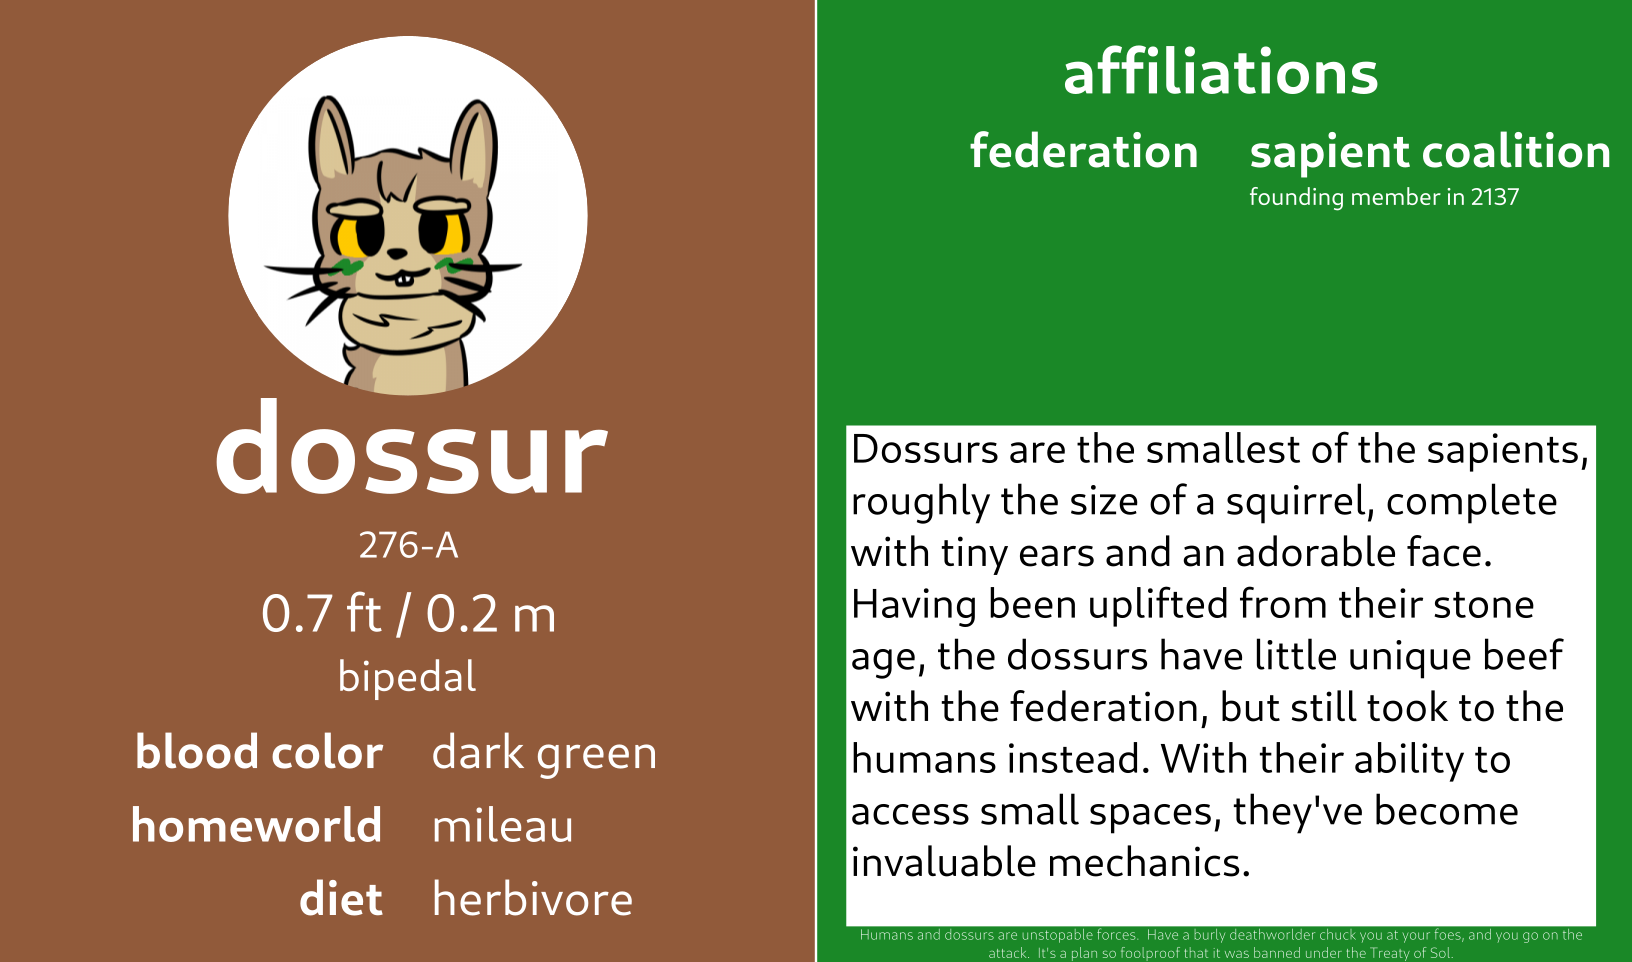
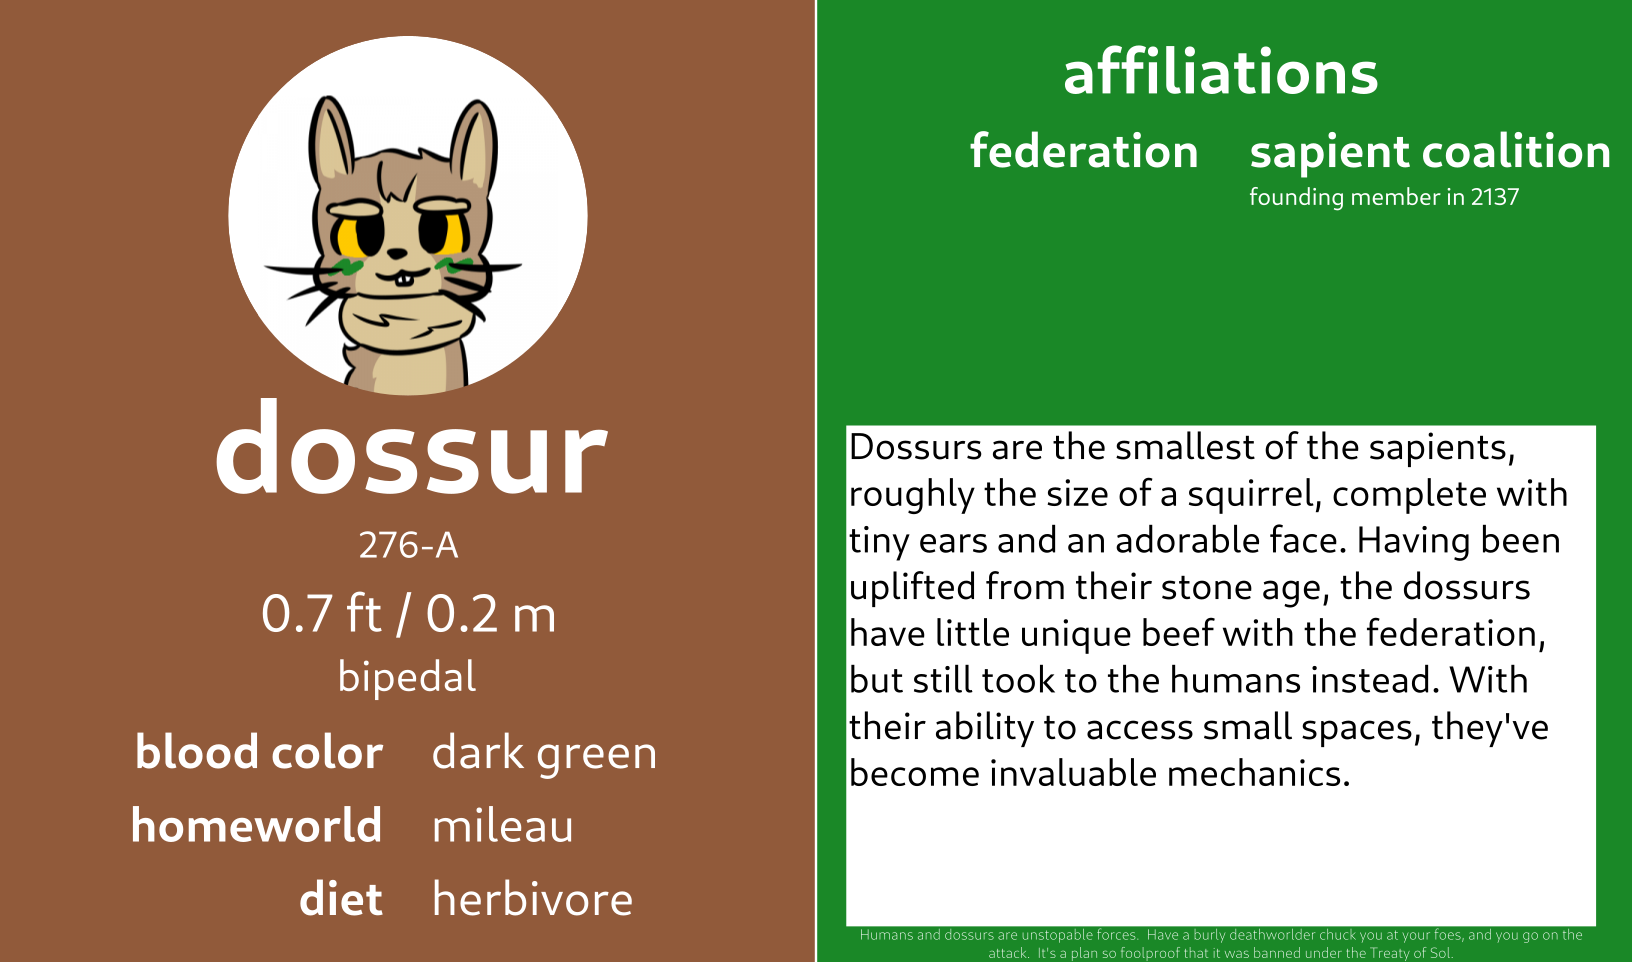
Several changes were made:

Changed region(s): [[0.5, 0.4366, 0.9688, 0.9356]]

diff --git a/svg_generator.py b/svg_generator.py
@@ -1,5 +1,6 @@
 from sapient import species
 from lxml import etree
+import os
 
 # Thanks to Filip Němeček for making a function I could plagirize or something lol.
 def check_contrast(hex_color):
@@ -31,7 +32,7 @@ class builder:
         self.ftitle = self.root.xpath("svg:g/svg:g[@id='a-side-text']/svg:g[@id='fanfic-data']/svg:text[@id='fanfic-title']", namespaces={'svg':'http://www.w3.org/2000/svg'})[0]
         self.fauth = self.root.xpath("svg:g/svg:g[@id='a-side-text']/svg:g[@id='fanfic-data']/svg:text[@id='fanfic-author']/svg:tspan/svg:tspan", namespaces={'svg':'http://www.w3.org/2000/svg'})[0]
         self.ffrom = self.root.xpath("svg:g/svg:g[@id='a-side-text']/svg:g[@id='fanfic-data']/svg:text[@id='fanfic-header-from']/svg:tspan", namespaces={'svg':'http://www.w3.org/2000/svg'})[0]
-        self.desc = self.root.xpath("svg:g/svg:text[@id='desc']/svg:tspan", namespaces={'svg':'http://www.w3.org/2000/svg'})[0]
+        self.desc = self.root.xpath("svg:g/svg:text[@id='desc']", namespaces={'svg':'http://www.w3.org/2000/svg'})[0]
         self.flavor = self.root.xpath("svg:g/svg:g[@id='b-side-text']/svg:text[@id='flavor-text']", namespaces={'svg':'http://www.w3.org/2000/svg'})[0]
         
         self.affilheads = [ #Some of these have deeper layers for god knows what reason and I do not dare touch the satan spaghetti of XML SVG tags autogenerated by inkscape, so here they remain.
@@ -205,7 +206,10 @@ class builder:
 
     # Set image
     def set_image(self,imagefile):
-        self.kisser.attrib['href'] = imagefile
+        if(os.path.exists(imagefile)):
+            self.kisser.attrib['href'] = imagefile
+        else:
+            self.kisser.attrib['href'] = "./assets/placeholder-kisser.png"
     
     def set_badges(self, cure, alter):
         self.isCured = cure

diff --git a/create.py b/create.py
@@ -2,9 +2,13 @@
 from spreadsheet import datatable 
 from svg_generator import builder
 import subprocess
-
+import os
+dir_path = os.path.dirname(os.path.realpath(__file__))
+os.chdir(dir_path)
 table = datatable('/home/LaserBread/Downloads/NoP Infocards Master Table.xlsx')
 build = builder("./assets/template.svg")
 for sp in table.get_all():
     build.build(sp)
     subprocess.run(['inkscape',  '--export-filename=./export/'+sp.name+'.png',  "--export-area-page", 'tmp.svg'])
+    
+os.remove("./tmp.svg")
